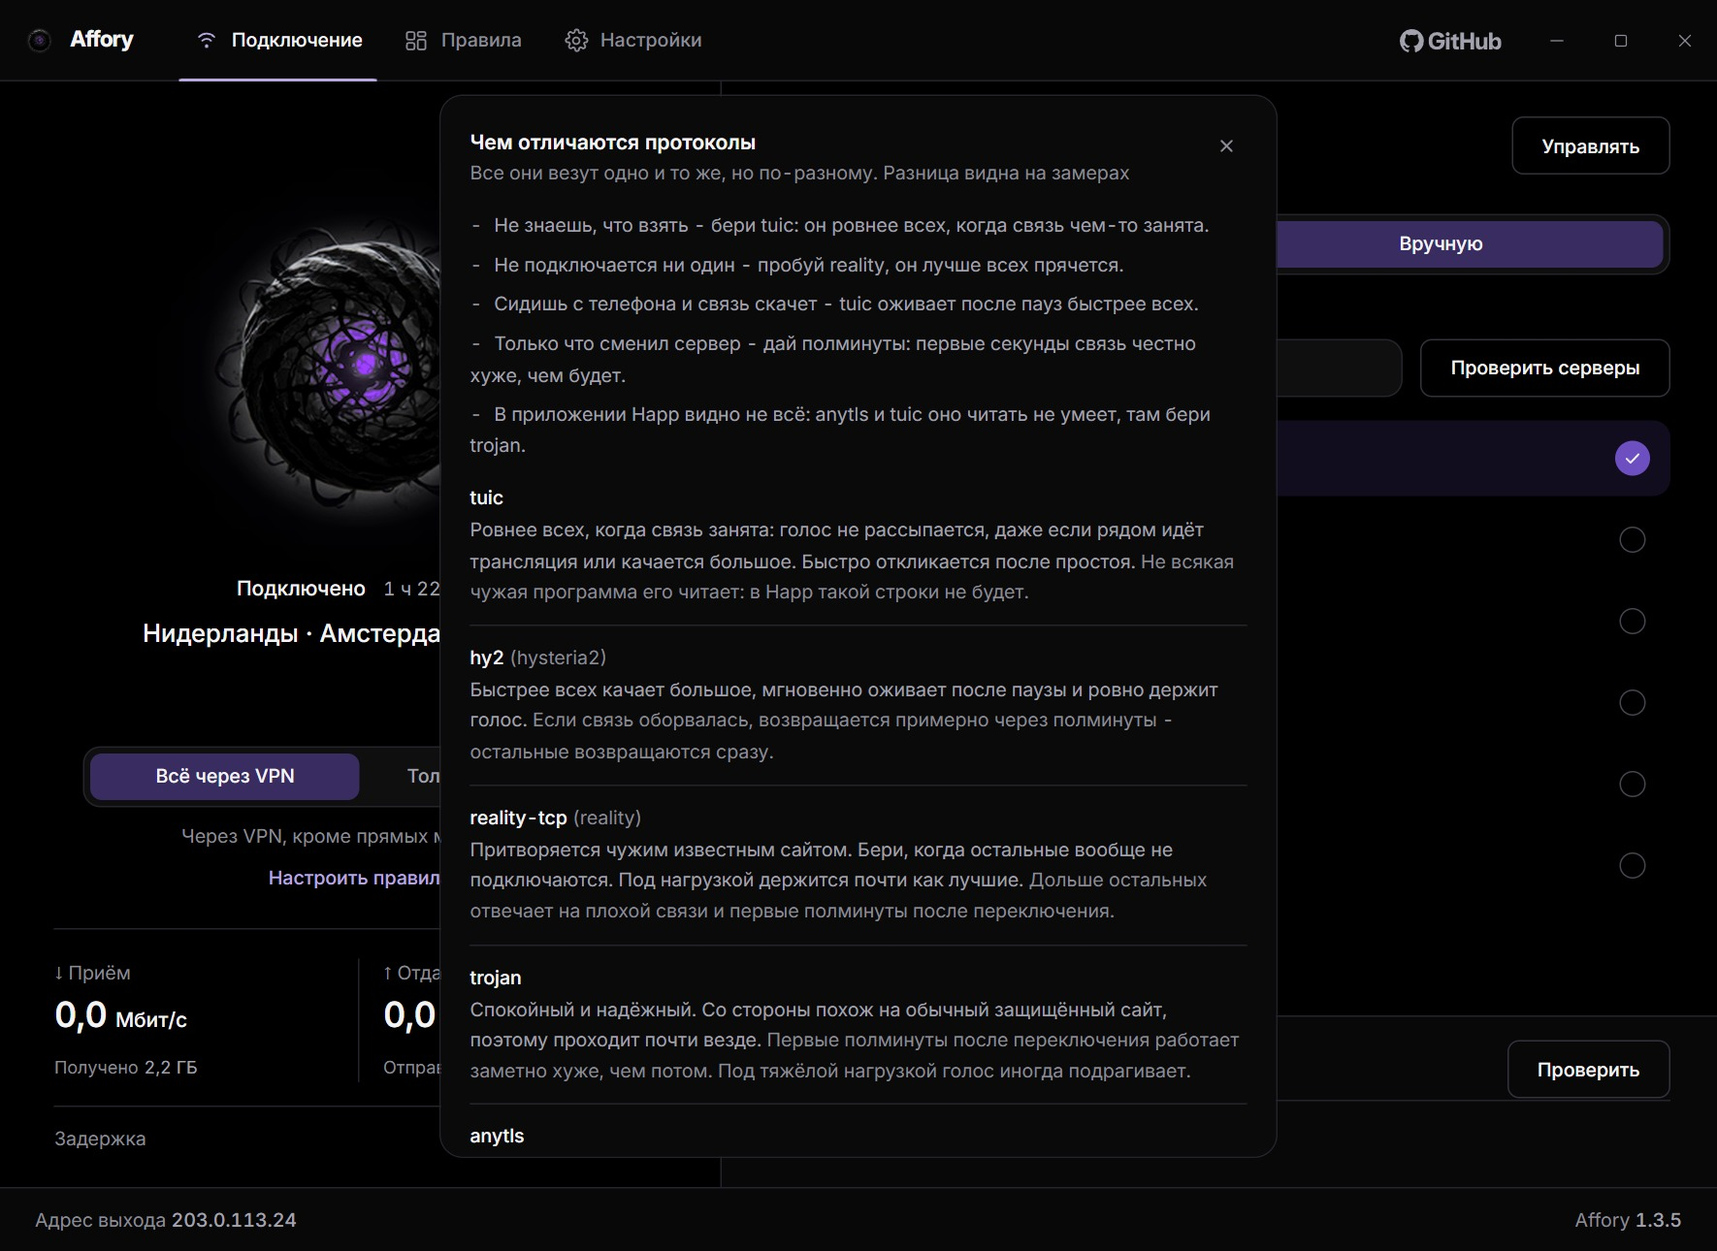
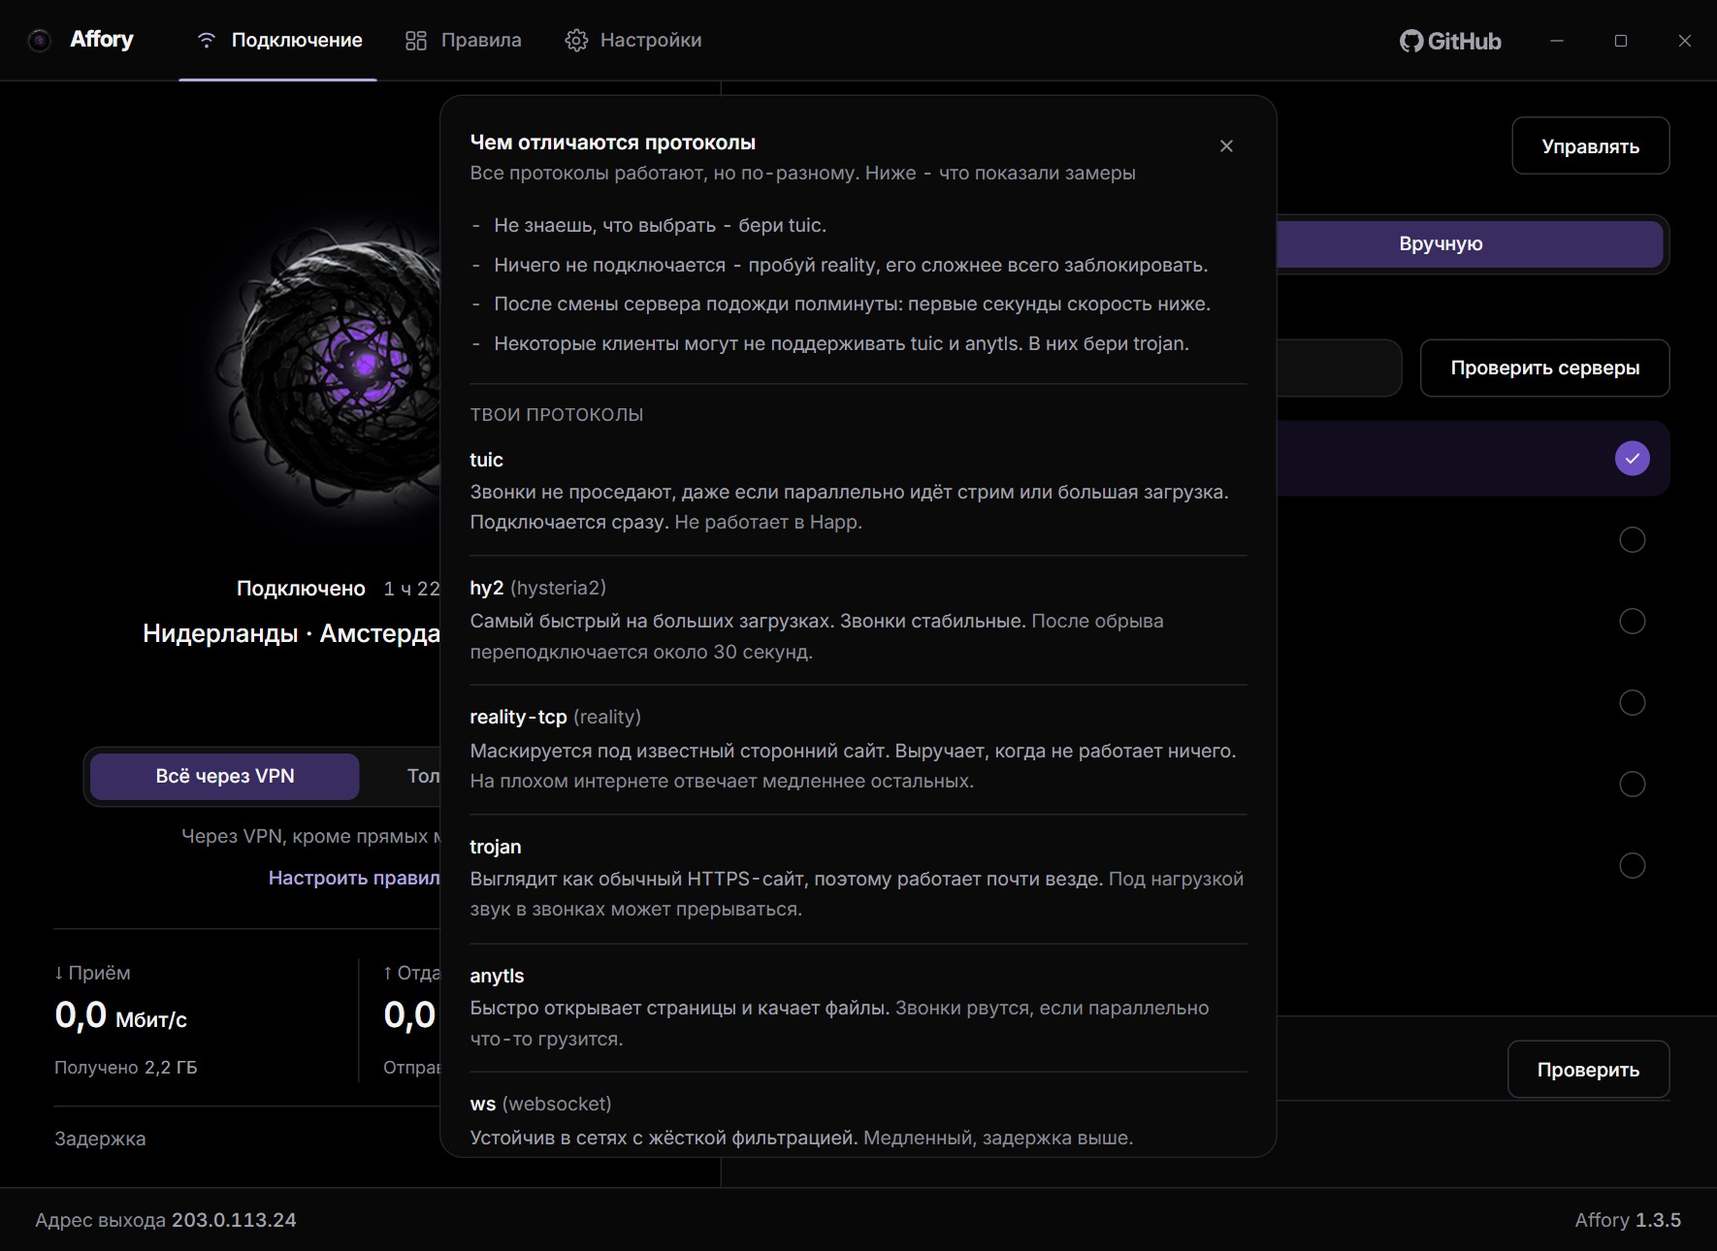
Справка о протоколах: текст вдвое короче, редакция владельца
Строки описаний были по два-три предложения, и в окно влезало шесть
протоколов из одиннадцати. Теперь влезает вся подписка и начало хвоста.

Названы вещи, которые человек видит сам: звонки, загрузки, вкладки,
HTTPS-сайт. Факты за строками прежние, из замеров 20-21.09.

Три места переписаны против оригинала владельца: окно не говорит от
«мы» (правило голоса, golos.test.ts), поэтому «наши протоколы» стали
«твоими», «с нашим сервером не работает» - «сервер его больше не
принимает», «новые ключи не выдаём» - «больше не выдают».

Порог длины в стороже пользы и цены опущен с 20 знаков до 15: цена
tuic «Не работает в Happ.» это 19. Сторож стоит против пустой цены, а
не против краткости.

Changed region(s): [[0.2797, 0.124, 0.7147, 0.7442], [0.2797, 0.7752, 0.7147, 0.9302]]

diff --git a/cmd/affory-ui/frontend/src/ekrany/SpravkaProtokolov.tsx b/cmd/affory-ui/frontend/src/ekrany/SpravkaProtokolov.tsx
@@ -21,73 +21,79 @@ import { useEffect, useRef } from "react";
 // из мира машин: человек, открывший эту справку, как раз и не знает этих слов,
 // иначе она была бы ему не нужна. Каждому протоколу одна строка про то, что он
 // даёт, и одна про то, чем платит. Обещаний без замера здесь нет.
+//
+// Редакция текстов - владельца, 21.09.2026: строки вдвое короче прежних, и
+// названы вещи, которые человек видит сам (звонки, загрузки, вкладки), а не
+// описаны обиняками. «HTTPS-сайт» и «фильтрация» оставлены сознательно: их
+// человек встречает в браузере, в отличие от рукопожатий и портов. Факты за
+// строками прежние, они из замеров ниже.
 
 /** Одно описание: чем хорош и чем плох. Ключи совпадают с TRANSPORT в Servery. */
 export const OPISANIYA: Record<string, { horosho: string; ceny: string }> = {
   anytls: {
-    horosho: "Ровный в обычных делах: страницы открываются быстро, большое качается споро.",
-    ceny: "Когда связь занята чем-то тяжёлым, голос спотыкается чаще других. После долгой паузы просыпается медленнее, чем hysteria2 и tuic.",
+    horosho: "Быстро открывает страницы и качает файлы.",
+    ceny: "Звонки рвутся, если параллельно что-то грузится.",
   },
   trojan: {
-    horosho: "Спокойный и надёжный. Со стороны похож на обычный защищённый сайт, поэтому проходит почти везде.",
-    ceny: "Первые полминуты после переключения работает заметно хуже, чем потом. Под тяжёлой нагрузкой голос иногда подрагивает.",
+    horosho: "Выглядит как обычный HTTPS-сайт, поэтому работает почти везде.",
+    ceny: "Под нагрузкой звук в звонках может прерываться.",
   },
   "reality-tcp": {
-    horosho: "Притворяется чужим известным сайтом. Бери, когда остальные вообще не подключаются. Под нагрузкой держится почти как лучшие.",
-    ceny: "Дольше остальных отвечает на плохой связи и первые полминуты после переключения.",
+    horosho: "Маскируется под известный сторонний сайт. Выручает, когда не работает ничего.",
+    ceny: "На плохом интернете отвечает медленнее остальных.",
   },
   hy2: {
-    horosho: "Быстрее всех качает большое, мгновенно оживает после паузы и ровно держит голос.",
-    ceny: "Если связь оборвалась, возвращается примерно через полминуты - остальные возвращаются сразу.",
+    horosho: "Самый быстрый на больших загрузках. Звонки стабильные.",
+    ceny: "После обрыва переподключается около 30 секунд.",
   },
   tuic: {
-    horosho: "Ровнее всех, когда связь занята: голос не рассыпается, даже если рядом идёт трансляция или качается большое. Быстро откликается после простоя.",
-    ceny: "Не всякая чужая программа его читает: в Happ такой строки не будет.",
+    horosho: "Звонки не проседают, даже если параллельно идёт стрим или большая загрузка. Подключается сразу.",
+    ceny: "Не работает в Happ.",
   },
   httpupgrade: {
-    horosho: "Выглядит как самый обычный сайт и пролезает там, где закрыто остальное.",
-    ceny: "Самый медленный в наборе и дольше всех отвечает после паузы.",
+    horosho: "Похож на обычный сайт. Проходит даже там, где заблокировано почти всё.",
+    ceny: "Самый медленный из всех.",
   },
   ws: {
-    horosho: "Обычное соединение с сайтом. Живучий вариант, когда сеть придирчива.",
-    ceny: "Медленнее остальных, отклик хуже.",
+    horosho: "Устойчив в сетях с жёсткой фильтрацией.",
+    ceny: "Медленный, задержка выше.",
   },
   grpc: {
-    horosho: "Хорош, когда открыта одна страница или идёт одна загрузка.",
-    ceny: "Слабеет, когда браузер тянет много всего разом, а это обычное дело.",
+    horosho: "Хорош, когда открыта одна вкладка или идёт одна загрузка.",
+    ceny: "Проседает, когда браузер грузит много всего сразу.",
   },
   ss: {
-    horosho: "Простой и давно известный способ.",
-    ceny: "Ничем не притворяется, поэтому его проще всего распознать и закрыть. Такие ключи больше не выдаются.",
+    horosho: "Простой и проверенный.",
+    ceny: "Не маскируется, блокируется легче всех. Новые такие ключи больше не выдают.",
   },
   vmess: {
-    horosho: "Старый формат из других программ, поддержан ради чужих ключей.",
-    ceny: "Ничего нового не даёт, выбирать его незачем.",
+    horosho: "Старый формат из других приложений.",
+    ceny: "Преимуществ нет, лучше не использовать.",
   },
   xhttp: {
-    horosho: "Оставлен ради старых ключей, чтобы они не выглядели сломанными.",
-    ceny: "На сервере его больше нет.",
+    horosho: "Оставлен, чтобы старые ключи не отображались как сломанные.",
+    ceny: "Сервер его больше не принимает.",
   },
 };
 
 /** Подпись под заголовком: с чего начать, если выбирать не хочется.
  *
- *  Строка про Happ появилась 19.09.2026, когда в нём недосчитались двух ключей
- *  из восьми, и подтвердилась 21.09 на живом экране: из шести ключей подписки
- *  Happ показал четыре, без tuic и anytls. Причина не в наших ссылках, их
- *  форма верна. Совет «бери tuic» без этой оговорки отправлял бы человека
- *  искать строку, которой у него на телефоне нет и не будет.
+ *  Строка про чужие клиенты появилась 19.09.2026, когда в Happ недосчитались
+ *  двух ключей из восьми, и подтвердилась 21.09 на живом экране: из шести
+ *  ключей подписки Happ показал четыре, без tuic и anytls. Причина не в наших
+ *  ссылках, их форма верна. Совет «бери tuic» без этой оговорки отправлял бы
+ *  человека искать строку, которой у него на телефоне нет и не будет. Имя
+ *  программы в совете владелец убрал: клиентов много, и Happ не единственный.
  *
  *  Строка про полминуты после смены сервера - из прогона 20.09: пять замеров
  *  подряд на reality дали 133, 85, 60, 68, 60 мс. У ключей, которые не на TCP,
  *  такого разогрева нет, но человеку в списке это ничем не видно, и он судит о
  *  новом сервере по худшей его минуте. */
 export const SOVET = [
-  "Не знаешь, что взять - бери tuic: он ровнее всех, когда связь чем-то занята.",
-  "Не подключается ни один - пробуй reality, он лучше всех прячется.",
-  "Сидишь с телефона и связь скачет - tuic оживает после пауз быстрее всех.",
-  "Только что сменил сервер - дай полминуты: первые секунды связь честно хуже, чем будет.",
-  "В приложении Happ видно не всё: anytls и tuic оно читать не умеет, там бери trojan.",
+  "Не знаешь, что выбрать - бери tuic.",
+  "Ничего не подключается - пробуй reality, его сложнее всего заблокировать.",
+  "После смены сервера подожди полминуты: первые секунды скорость ниже.",
+  "Некоторые клиенты могут не поддерживать tuic и anytls. В них бери trojan.",
 ];
 
 function Krestik() {
@@ -162,8 +168,8 @@ export function SpravkaProtokolov({ zakryt, svoi }: { zakryt: () => void; svoi?:
   const est = PORYADOK.filter((t) => OPISANIYA[t] && nabor.has(t));
   const ostalnye = PORYADOK.filter((t) => OPISANIYA[t] && !nabor.has(t));
   const razdely: { zagolovok?: string; transporty: string[] }[] = est.length
-    ? [{ transporty: est },
-       { zagolovok: "Остальные - если ключ пришёл со стороны", transporty: ostalnye }]
+    ? [{ zagolovok: "Твои протоколы", transporty: est },
+       { zagolovok: "Остальные - если ключ не из твоей подписки", transporty: ostalnye }]
     : [{ transporty: ostalnye }];
 
   // Esc закрывает, и фокус уезжает внутрь окна: без этого человек, пришедший
@@ -198,7 +204,7 @@ export function SpravkaProtokolov({ zakryt, svoi }: { zakryt: () => void; svoi?:
           <div>
             <h3 className="text-foreground text-base font-semibold">Чем отличаются протоколы</h3>
             <p className="text-fg-muted mt-0.5 text-[13px]">
-              Все они везут одно и то же, но по-разному. Разница видна на замерах
+              Все протоколы работают, но по-разному. Ниже - что показали замеры
             </p>
           </div>
           <button

diff --git a/cmd/affory-ui/frontend/src/ekrany/SpravkaProtokolov.test.tsx b/cmd/affory-ui/frontend/src/ekrany/SpravkaProtokolov.test.tsx
@@ -121,9 +121,13 @@ describe("Справка о протоколах", () => {
   it("у каждого протокола названа и польза, и цена", () => {
     // Описание из одних достоинств это реклама, а не справка: выбрать по ней
     // нельзя, потому что выбор это всегда обмен одного на другое.
+    //
+    // Порог 15, а не 20: 21.09.2026 владелец сократил тексты вдвое, и цена
+    // tuic «Не работает в Happ.» это целых 19 знаков. Сторож здесь стоит
+    // против ПУСТОЙ цены и отписки вроде «нет», а не против краткости.
     for (const [t, o] of Object.entries(OPISANIYA)) {
-      expect(o.horosho.length, t).toBeGreaterThan(20);
-      expect(o.ceny.length, t).toBeGreaterThan(20);
+      expect(o.horosho.length, t).toBeGreaterThan(15);
+      expect(o.ceny.length, t).toBeGreaterThan(15);
     }
   });
 });
